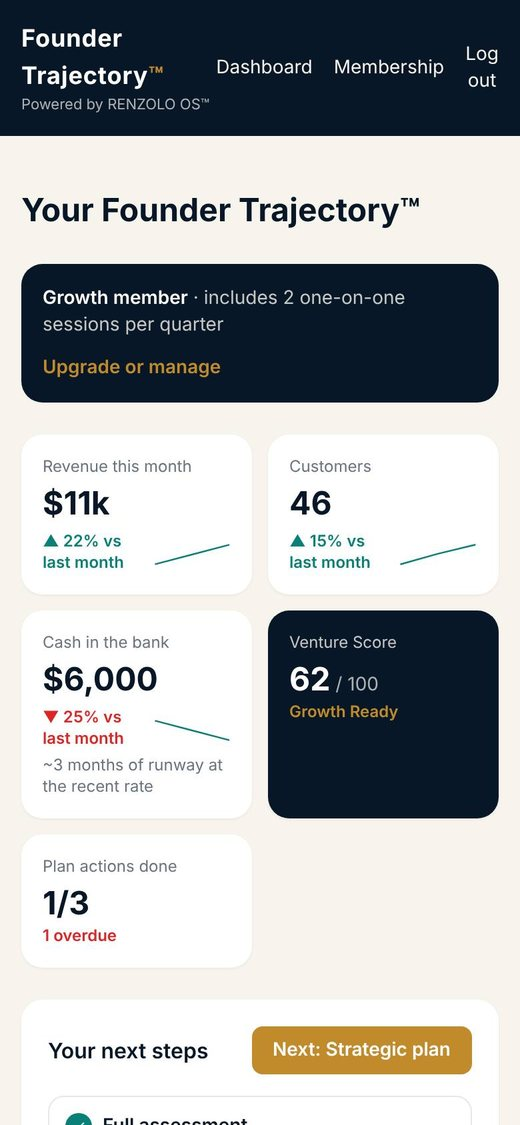
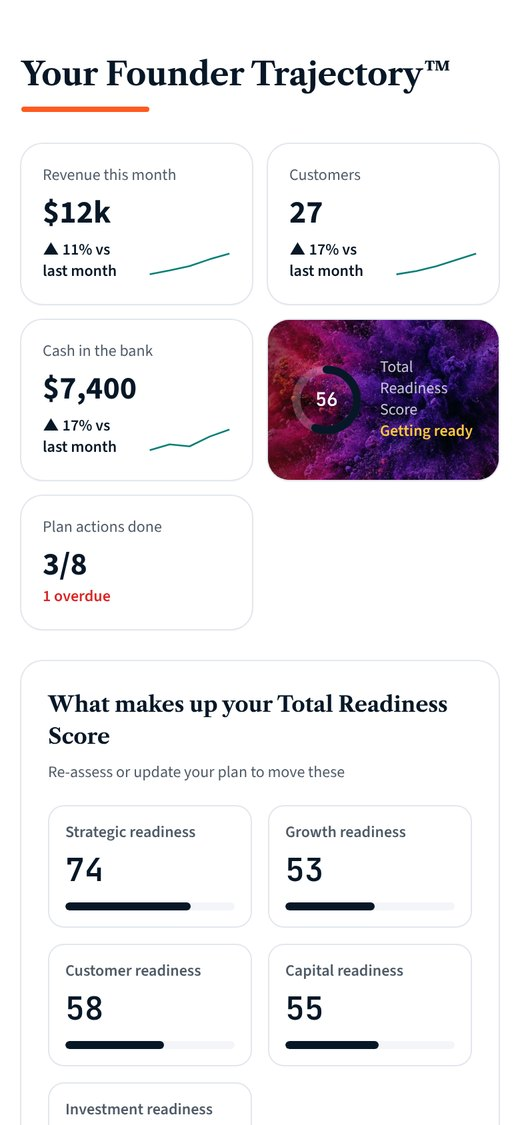
Website: new product screenshots in the current OS look; fix two progress bars and the AI coach crash
- Inside RENZOLO OS™ screenshots retaken from the app as it looks now
  (white base, navy panels, orange highlights), using the invented demo
  founder; demo data moved to lib/demo-data.ts
- Plan and assessment progress bars were invisible (teal is now navy on
  a navy card): orange fill on a light track
- AI coach page crashed in current Chrome: a scroll effect returned a
  value React tried to call as cleanup

Claude-Session: https://claude.ai/code/session_01LsKsXLdSPECyPovwqmVun1

diff --git a/lib/demo-data.ts b/lib/demo-data.ts
@@ -1,0 +1,107 @@
+import type { DashboardData } from "@/components/dashboard/FounderDashboard";
+import { emptyPlan, type StrategicPlan } from "@/lib/plan";
+import { readinessFromRows } from "@/lib/readiness";
+import { trajectory } from "@/lib/live-score";
+import { BLOCK_LABELS, type BlockKey } from "@/lib/scoring";
+
+/** The invented founder used on the public demo (/demo) and for the
+ * website's product screenshots. No real data. */
+const DAY = 864e5;
+const iso = (d: Date) => d.toISOString().slice(0, 10);
+const ago = (today: Date, days: number) => iso(new Date(today.getTime() - days * DAY));
+const ahead = (today: Date, days: number) => iso(new Date(today.getTime() + days * DAY));
+const monthStart = (today: Date, back: number) => iso(new Date(Date.UTC(today.getUTCFullYear(), today.getUTCMonth() - back, 1)));
+
+export function demoData(): DashboardData {
+  const now = new Date();
+  const today = iso(now);
+  const start = ago(now, 120);
+  const reassessed = ago(now, 30);
+
+  const blocks: Record<BlockKey, number> = {
+    customerSegments: 62, valueProposition: 66, channels: 44, customerRelationships: 55, revenueStreams: 41,
+    keyResources: 58, keyActivities: 61, keyPartnerships: 47, costStructure: 52,
+  };
+  const gaps = (Object.entries(blocks) as [BlockKey, number][]).sort((a, b) => a[1] - b[1]).slice(0, 3).map(([block, score]) => ({ block, label: BLOCK_LABELS[block], score }));
+  const score = {
+    id: "demo-score", created_at: `${reassessed}T09:00:00Z`, block_scores: blocks, gaps,
+    market_subscore: 54, customer_subscore: 58, investor_subscore: 42,
+    health_index: 61, health_confidence: "Medium", evidence_completeness: 0.55,
+    valuation_low: 180000, valuation_high: 260000, valuation_basis: "Revenue multiple for an early-growth food processing business in Kenya, adjusted for readiness.",
+  };
+
+  const plan: StrategicPlan = emptyPlan();
+  plan.tracking = { targetScore: 72, targetDate: ahead(now, 240), reassessEvery: 90, reassessOn: "" };
+  plan.goals = [
+    { id: "g1", title: "Win supermarket contracts", measure: "Contract customers", unit: "customers", baseline: 1, target: 6, start, date: ahead(now, 240) },
+    { id: "g2", title: "Grow monthly revenue", measure: "Monthly revenue", unit: "USD", baseline: 8000, target: 20000, start, date: ahead(now, 240) },
+    { id: "g3", title: "Qualify for a working-capital loan", measure: "Lender checklist items met", unit: "items", baseline: 2, target: 8, start, date: ahead(now, 150) },
+  ] as any;
+  const a = (id: string, text: string, status: "done" | "in_progress" | "not_started", due: string, doneOn = "", evidence = "") => ({ id, text, owner: "Amani", due, status, doneOn, evidence });
+  plan.areas = {
+    channels: { current: "Sells through two local shops and market stalls.", desired: "Supplying three regional supermarket chains.", actions: [
+      a("c1", "Get supermarket listing requirements from 3 buyers", "done", ago(now, 40), ago(now, 42), "Requirements from three supermarket buyers"),
+      a("c2", "Get food-safety certification", "in_progress", ahead(now, 20)),
+      a("c3", "Pitch to 2 supermarket buyers", "not_started", ahead(now, 45)),
+    ] },
+    revenueStreams: { current: "One product line, cash sales.", desired: "Two product lines with 30-day invoicing.", actions: [
+      a("r1", "Launch the 1kg family pack", "done", ago(now, 20), ago(now, 18), "First 400 packs sold"),
+      a("r2", "Set wholesale price list", "not_started", ago(now, 5)),
+    ] },
+    keyPartnerships: { current: "No formal supplier agreements.", desired: "Two contracted farmer cooperatives.", actions: [
+      a("p1", "Sign a supply agreement with a farmer cooperative", "in_progress", ahead(now, 30)),
+    ] },
+    costStructure: { current: "Costs tracked in a notebook.", desired: "Monthly management accounts.", actions: [
+      a("k1", "Move bookkeeping to accounting software", "done", ago(now, 60), ago(now, 58), "Software set up, 3 months entered"),
+      a("k2", "Prepare 12 months of bank statements for lenders", "not_started", ahead(now, 14)),
+    ] },
+  } as any;
+  plan.starting = { existingPlan: "outdated", lastUpdated: "1to2y", whatChanged: "Launched a second product and started talking to supermarket buyers." };
+  plan.vision = { current: "A small packaged-food business selling through local shops and markets.", desired: "A certified supplier to three supermarket chains with steady monthly revenue.", horizon: "12 months" };
+  plan.resources = { revenueNow: "12000", revenueTarget: "20000", fundingNeed: "15000", fundingSources: ["Own revenue"], fundingUse: "Working capital for supermarket orders on 60-day terms", people: "Amani and two staff; hire a sales lead in 6 months" };
+  plan.risks = [{ id: "x1", text: "A large buyer pays late", likelihood: "medium", response: "Invoice factoring line; 30-day terms only with deposit" }] as any;
+
+  const checkins = [
+    { goal_id: "g1", value: 2, checked_on: ago(now, 70) }, { goal_id: "g1", value: 3, checked_on: ago(now, 20) },
+    { goal_id: "g2", value: 9800, checked_on: ago(now, 60) }, { goal_id: "g2", value: 12400, checked_on: ago(now, 10) },
+    { goal_id: "g3", value: 4, checked_on: ago(now, 25) },
+  ];
+  const updates = [5, 4, 3, 2, 1].map((back, i) => ({ period: monthStart(now, back), revenue: [8100, 8900, 9800, 11200, 12400][i], customers: [14, 16, 19, 23, 27][i], cash: [4200, 5100, 4800, 6300, 7400][i] }));
+  const confirmed = [{ date: `${reassessed}T09:00:00Z`, total: 54 }, { date: `${start}T09:00:00Z`, total: 46 }];
+  const readiness = readinessFromRows(score, { completeness: 78, review: 70 }, 60);
+
+  const t = trajectory({
+    plan, confirmed, checkins, updates,
+    documents: [{ doc_type: "bank_statement", created_at: `${ago(now, 12)}T00:00:00Z`, ok: true }],
+    startBlocks: blocks, today,
+  } as any);
+
+  return {
+    access: { member: true, growth: true },
+    extras: ["goalCharts", "kpiTrends", "valuation", "areas", "gaps"],
+    score,
+    readiness,
+    plan,
+    planCompleteness: 78,
+    checkins,
+    updates,
+    review: null,
+    market: null,
+    areasAnswered: 9,
+    areasTotal: 9,
+    report: { exists: true, current: true },
+    scoreHistory: [{ date: start, score: 46 }, { date: reassessed, score: 54 }],
+    recommendations: [
+      { id: "rec1", source: "Readiness Report", title: "Get food-safety certification before pitching supermarkets" },
+      { id: "rec2", source: "Coach", title: "Use the cooperative agreement as proof of supply in buyer pitches" },
+    ],
+    milestones: [{ id: "m1", title: "First supermarket listing", target_date: ahead(now, 60) }],
+    coaching: { available: 1, nextFrom: null, included: "2 one-on-one 30-minute sessions per quarter" },
+    commitments: [{ id: "cm1", sessionId: "s1", text: "Send the cooperative the draft supply agreement", due: ahead(now, 6) }],
+    invite: null,
+    today,
+    nextReminder: null,
+    trajectory: t,
+  };
+}
+

diff --git a/app/demo/page.tsx b/app/demo/page.tsx
@@ -1,9 +1,6 @@
-import { FounderDashboard, type DashboardData } from "@/components/dashboard/FounderDashboard";
+import { FounderDashboard } from "@/components/dashboard/FounderDashboard";
 import { DemoGuard } from "@/components/DemoGuard";
-import { emptyPlan, type StrategicPlan } from "@/lib/plan";
-import { readinessFromRows } from "@/lib/readiness";
-import { trajectory } from "@/lib/live-score";
-import { BLOCK_LABELS, type BlockKey } from "@/lib/scoring";
+import { demoData } from "@/lib/demo-data";
 
 export const metadata = { title: "Demo dashboard · Founder Trajectory™", robots: { index: false, follow: false } };
 export const dynamic = "force-dynamic";
@@ -11,102 +8,6 @@ export const dynamic = "force-dynamic";
 /** A public demo of the founder dashboard, for sales demos (Nov 11 2026).
  * The founder and business are invented; no real data is read, and
  * nothing a visitor changes is saved (components/DemoGuard.tsx). */
-
-const DAY = 864e5;
-const iso = (d: Date) => d.toISOString().slice(0, 10);
-const ago = (today: Date, days: number) => iso(new Date(today.getTime() - days * DAY));
-const ahead = (today: Date, days: number) => iso(new Date(today.getTime() + days * DAY));
-const monthStart = (today: Date, back: number) => iso(new Date(Date.UTC(today.getUTCFullYear(), today.getUTCMonth() - back, 1)));
-
-function demoData(): DashboardData {
-  const now = new Date();
-  const today = iso(now);
-  const start = ago(now, 120);
-  const reassessed = ago(now, 30);
-
-  const blocks: Record<BlockKey, number> = {
-    customerSegments: 62, valueProposition: 66, channels: 44, customerRelationships: 55, revenueStreams: 41,
-    keyResources: 58, keyActivities: 61, keyPartnerships: 47, costStructure: 52,
-  };
-  const gaps = (Object.entries(blocks) as [BlockKey, number][]).sort((a, b) => a[1] - b[1]).slice(0, 3).map(([block, score]) => ({ block, label: BLOCK_LABELS[block], score }));
-  const score = {
-    id: "demo-score", created_at: `${reassessed}T09:00:00Z`, block_scores: blocks, gaps,
-    market_subscore: 54, customer_subscore: 58, investor_subscore: 42,
-    health_index: 61, health_confidence: "Medium", evidence_completeness: 0.55,
-    valuation_low: 180000, valuation_high: 260000, valuation_basis: "Revenue multiple for an early-growth food processing business in Kenya, adjusted for readiness.",
-  };
-
-  const plan: StrategicPlan = emptyPlan();
-  plan.tracking = { targetScore: 72, targetDate: ahead(now, 240), reassessEvery: 90, reassessOn: "" };
-  plan.goals = [
-    { id: "g1", title: "Win supermarket contracts", measure: "Contract customers", unit: "customers", baseline: 1, target: 6, start, date: ahead(now, 240) },
-    { id: "g2", title: "Grow monthly revenue", measure: "Monthly revenue", unit: "USD", baseline: 8000, target: 20000, start, date: ahead(now, 240) },
-    { id: "g3", title: "Qualify for a working-capital loan", measure: "Lender checklist items met", unit: "items", baseline: 2, target: 8, start, date: ahead(now, 150) },
-  ] as any;
-  const a = (id: string, text: string, status: "done" | "in_progress" | "not_started", due: string, doneOn = "", evidence = "") => ({ id, text, owner: "Amani", due, status, doneOn, evidence });
-  plan.areas = {
-    channels: { current: "Sells through two local shops and market stalls.", desired: "Supplying three regional supermarket chains.", actions: [
-      a("c1", "Get supermarket listing requirements from 3 buyers", "done", ago(now, 40), ago(now, 42), "Requirements from three supermarket buyers"),
-      a("c2", "Get food-safety certification", "in_progress", ahead(now, 20)),
-      a("c3", "Pitch to 2 supermarket buyers", "not_started", ahead(now, 45)),
-    ] },
-    revenueStreams: { current: "One product line, cash sales.", desired: "Two product lines with 30-day invoicing.", actions: [
-      a("r1", "Launch the 1kg family pack", "done", ago(now, 20), ago(now, 18), "First 400 packs sold"),
-      a("r2", "Set wholesale price list", "not_started", ago(now, 5)),
-    ] },
-    keyPartnerships: { current: "No formal supplier agreements.", desired: "Two contracted farmer cooperatives.", actions: [
-      a("p1", "Sign a supply agreement with a farmer cooperative", "in_progress", ahead(now, 30)),
-    ] },
-    costStructure: { current: "Costs tracked in a notebook.", desired: "Monthly management accounts.", actions: [
-      a("k1", "Move bookkeeping to accounting software", "done", ago(now, 60), ago(now, 58), "Software set up, 3 months entered"),
-      a("k2", "Prepare 12 months of bank statements for lenders", "not_started", ahead(now, 14)),
-    ] },
-  } as any;
-  plan.risks = [{ id: "x1", text: "A large buyer pays late", likelihood: "medium", response: "Invoice factoring line; 30-day terms only with deposit" }] as any;
-
-  const checkins = [
-    { goal_id: "g1", value: 2, checked_on: ago(now, 70) }, { goal_id: "g1", value: 3, checked_on: ago(now, 20) },
-    { goal_id: "g2", value: 9800, checked_on: ago(now, 60) }, { goal_id: "g2", value: 12400, checked_on: ago(now, 10) },
-    { goal_id: "g3", value: 4, checked_on: ago(now, 25) },
-  ];
-  const updates = [5, 4, 3, 2, 1].map((back, i) => ({ period: monthStart(now, back), revenue: [8100, 8900, 9800, 11200, 12400][i], customers: [14, 16, 19, 23, 27][i], cash: [4200, 5100, 4800, 6300, 7400][i] }));
-  const confirmed = [{ date: `${reassessed}T09:00:00Z`, total: 54 }, { date: `${start}T09:00:00Z`, total: 46 }];
-  const readiness = readinessFromRows(score, { completeness: 78, review: 70 }, 60);
-
-  const t = trajectory({
-    plan, confirmed, checkins, updates,
-    documents: [{ doc_type: "bank_statement", created_at: `${ago(now, 12)}T00:00:00Z`, ok: true }],
-    startBlocks: blocks, today,
-  } as any);
-
-  return {
-    access: { member: true, growth: true },
-    extras: ["goalCharts", "kpiTrends", "valuation", "areas", "gaps"],
-    score,
-    readiness,
-    plan,
-    planCompleteness: 78,
-    checkins,
-    updates,
-    review: null,
-    market: null,
-    areasAnswered: 9,
-    areasTotal: 9,
-    report: { exists: true, current: true },
-    scoreHistory: [{ date: start, score: 46 }, { date: reassessed, score: 54 }],
-    recommendations: [
-      { id: "rec1", source: "Readiness Report", title: "Get food-safety certification before pitching supermarkets" },
-      { id: "rec2", source: "Coach", title: "Use the cooperative agreement as proof of supply in buyer pitches" },
-    ],
-    milestones: [{ id: "m1", title: "First supermarket listing", target_date: ahead(now, 60) }],
-    coaching: { available: 1, nextFrom: null, included: "2 one-on-one 30-minute sessions per quarter" },
-    commitments: [{ id: "cm1", sessionId: "s1", text: "Send the cooperative the draft supply agreement", due: ahead(now, 6) }],
-    invite: null,
-    today,
-    nextReminder: null,
-    trajectory: t,
-  };
-}
 
 export default function DemoPage() {
   const d = demoData();

diff --git a/components/PlanBuilder.tsx b/components/PlanBuilder.tsx
@@ -119,8 +119,8 @@ export function PlanBuilder({
         <div className="rounded-2xl bg-navy p-4 text-white">
           <p className="text-sm text-cream/80">Plan complete</p>
           <p className="text-2xl font-bold">{pct}%</p>
-          <div className="mt-2 h-2 overflow-hidden rounded-full bg-navy-panel" role="progressbar" aria-valuenow={pct} aria-valuemin={0} aria-valuemax={100} aria-label="Plan complete">
-            <div className="h-2 bg-teal" style={{ width: `${pct}%` }} />
+          <div className="mt-2 h-2 w-full overflow-hidden rounded-full bg-white/15" role="progressbar" aria-valuenow={pct} aria-valuemin={0} aria-valuemax={100} aria-label="Plan complete">
+            <div className="h-2 bg-brand" style={{ width: `${pct}%` }} />
           </div>
           <p className="mt-2 text-xs text-cream/70">{saving ? "Saving…" : dirty ? "Unsaved changes" : savedAt ? `Saved ${new Date(savedAt).toLocaleString("en-GB", { day: "numeric", month: "short", hour: "2-digit", minute: "2-digit" })}` : "Not saved yet"}</p>
         </div>

diff --git a/components/DetailForm.tsx b/components/DetailForm.tsx
@@ -112,8 +112,8 @@ export function DetailForm({
           <p className="text-2xl font-bold">
             {doneCount} of {areas.length} areas
           </p>
-          <div className="mt-2 h-2 overflow-hidden rounded-full bg-navy-panel" role="progressbar" aria-valuenow={pct} aria-valuemin={0} aria-valuemax={100} aria-label="Areas done">
-            <div className="h-2 bg-teal" style={{ width: `${pct}%` }} />
+          <div className="mt-2 h-2 w-full overflow-hidden rounded-full bg-white/15" role="progressbar" aria-valuenow={pct} aria-valuemin={0} aria-valuemax={100} aria-label="Areas done">
+            <div className="h-2 bg-brand" style={{ width: `${pct}%` }} />
           </div>
           <p className="mt-2 text-xs text-cream/70">{doneCount >= required ? "Enough for your report. Each extra area sharpens it." : `${required - doneCount} more for your report.`}</p>
         </div>

diff --git a/components/coaching/AiCoachChat.tsx b/components/coaching/AiCoachChat.tsx
@@ -51,7 +51,9 @@ export function AiCoachChat({
   const [error, setError] = useState<string | null>(null);
   const [remaining, setRemaining] = useState(initialRemaining);
   const endRef = useRef<HTMLDivElement>(null);
-  useEffect(() => endRef.current?.scrollIntoView({ behavior: "smooth", block: "end" }), [messages.length, busy]);
+  useEffect(() => {
+    endRef.current?.scrollIntoView({ behavior: "smooth", block: "end" });
+  }, [messages.length, busy]);
 
   async function send(opts: { message?: string; checkin?: boolean; insights?: boolean }) {
     const text = (opts.message ?? "").trim();
